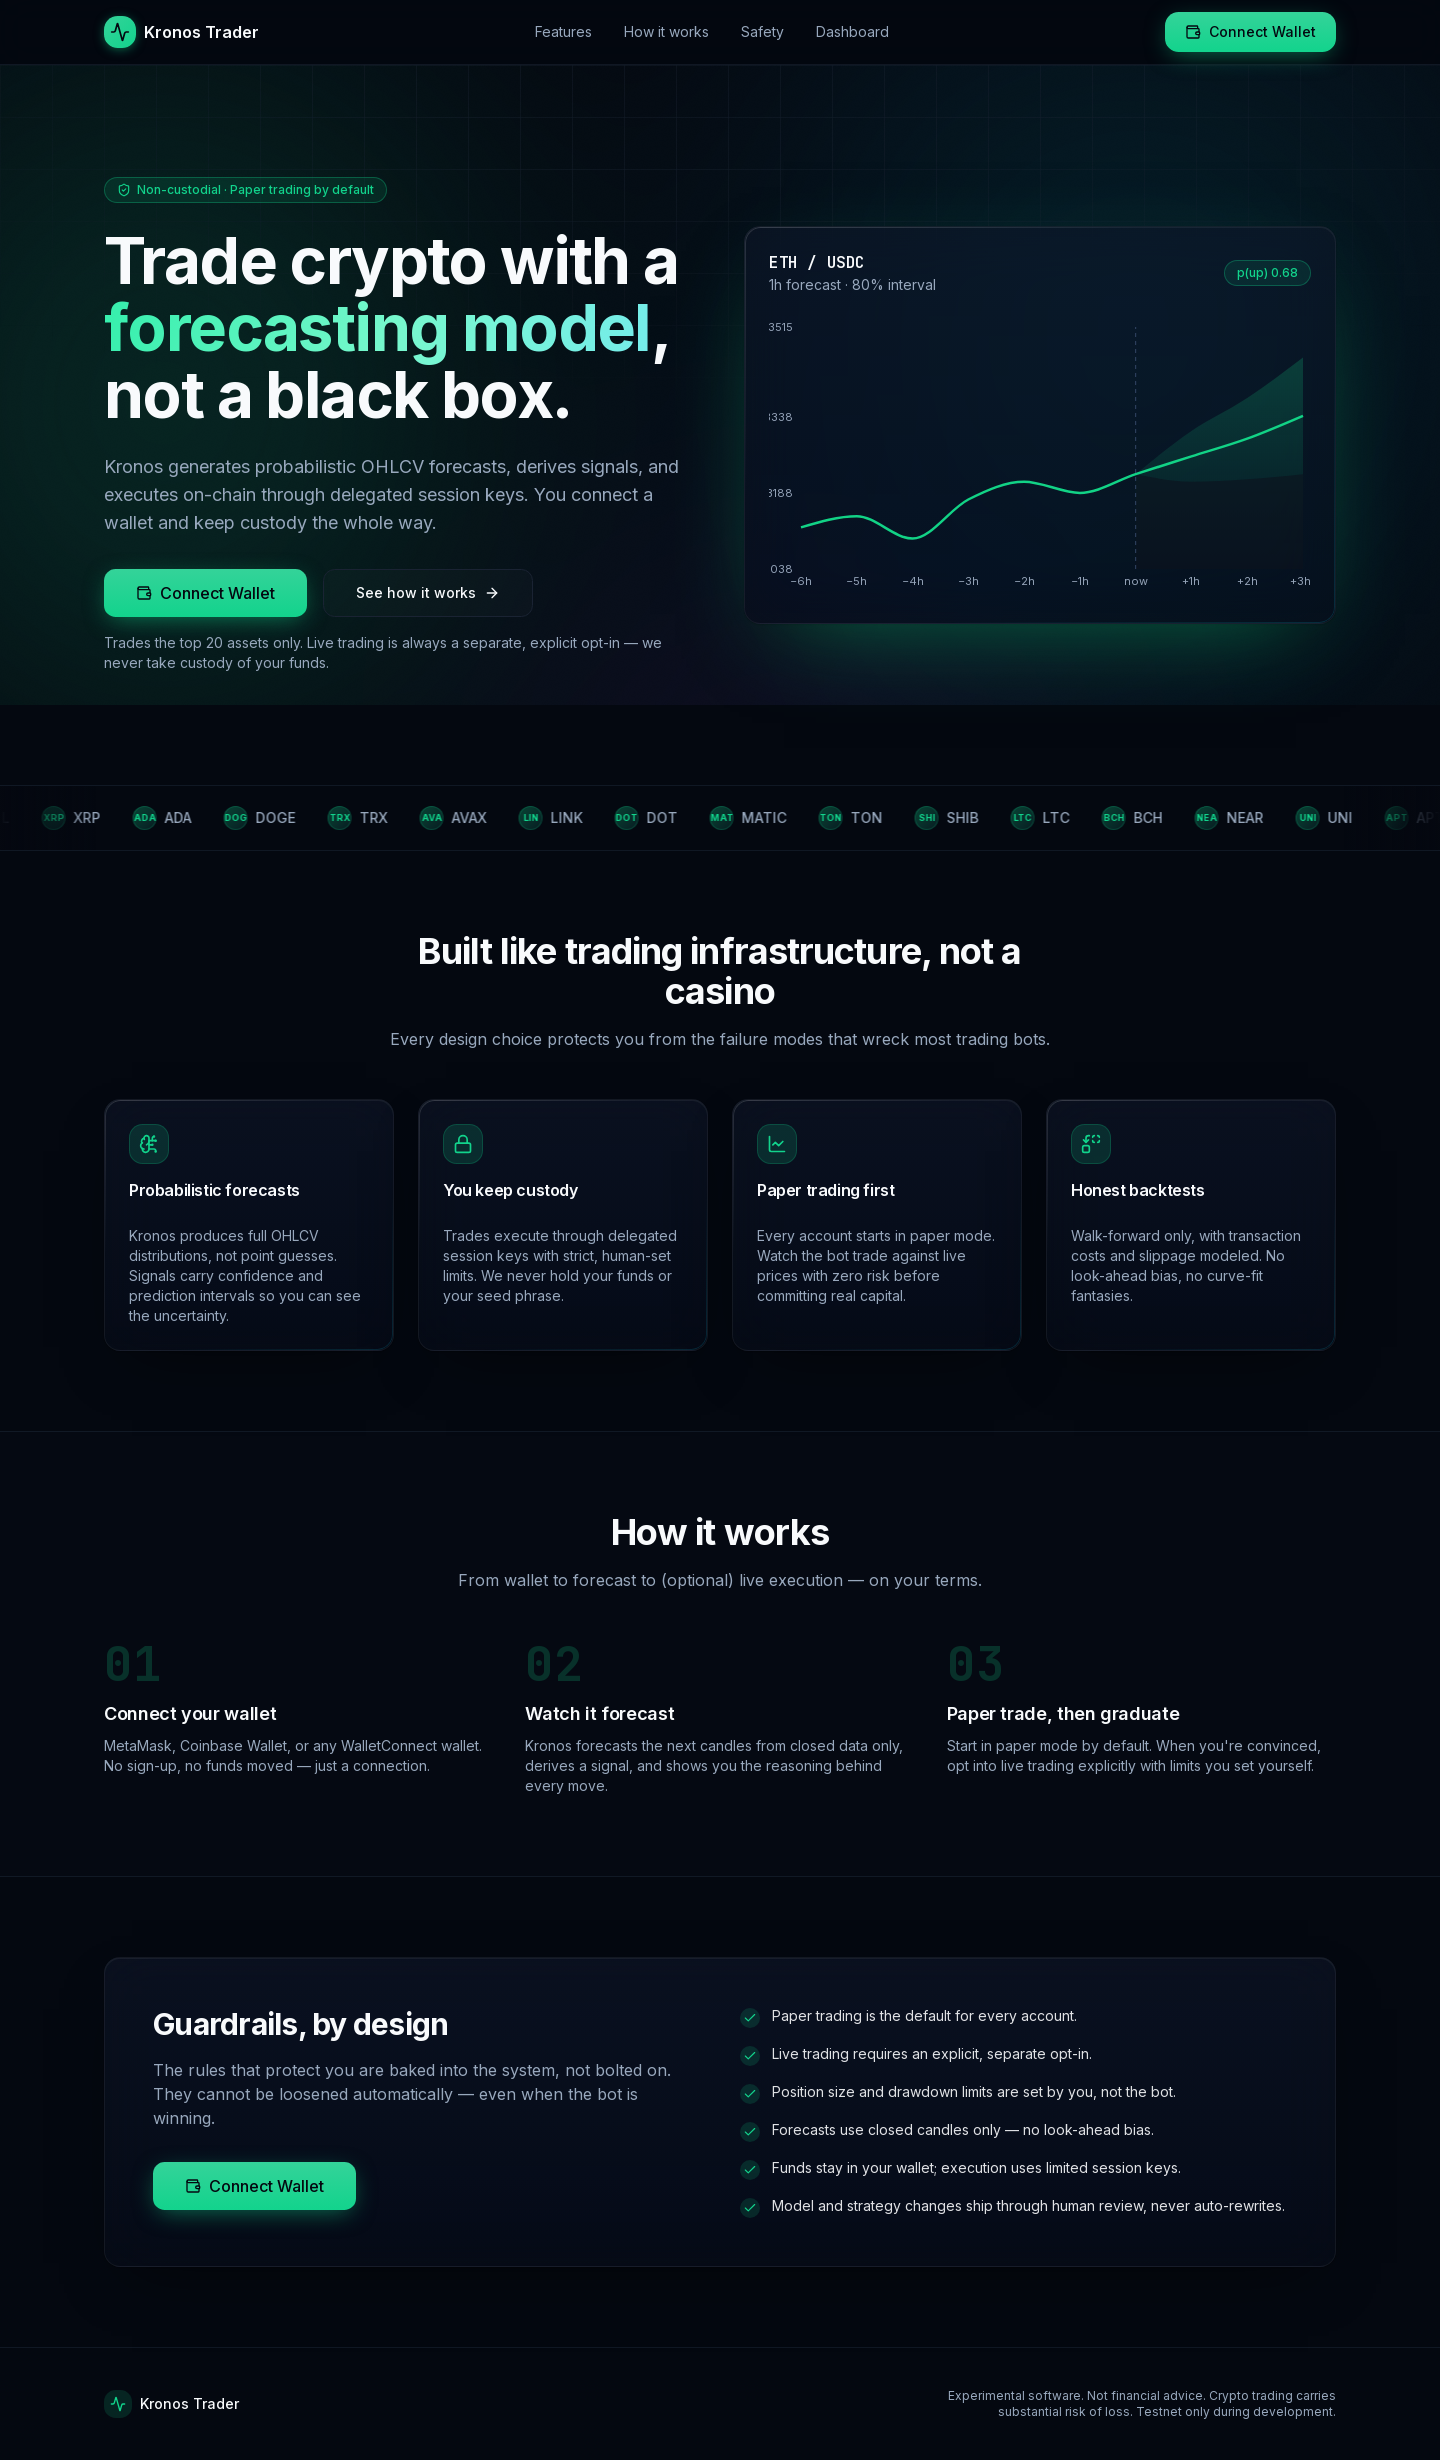
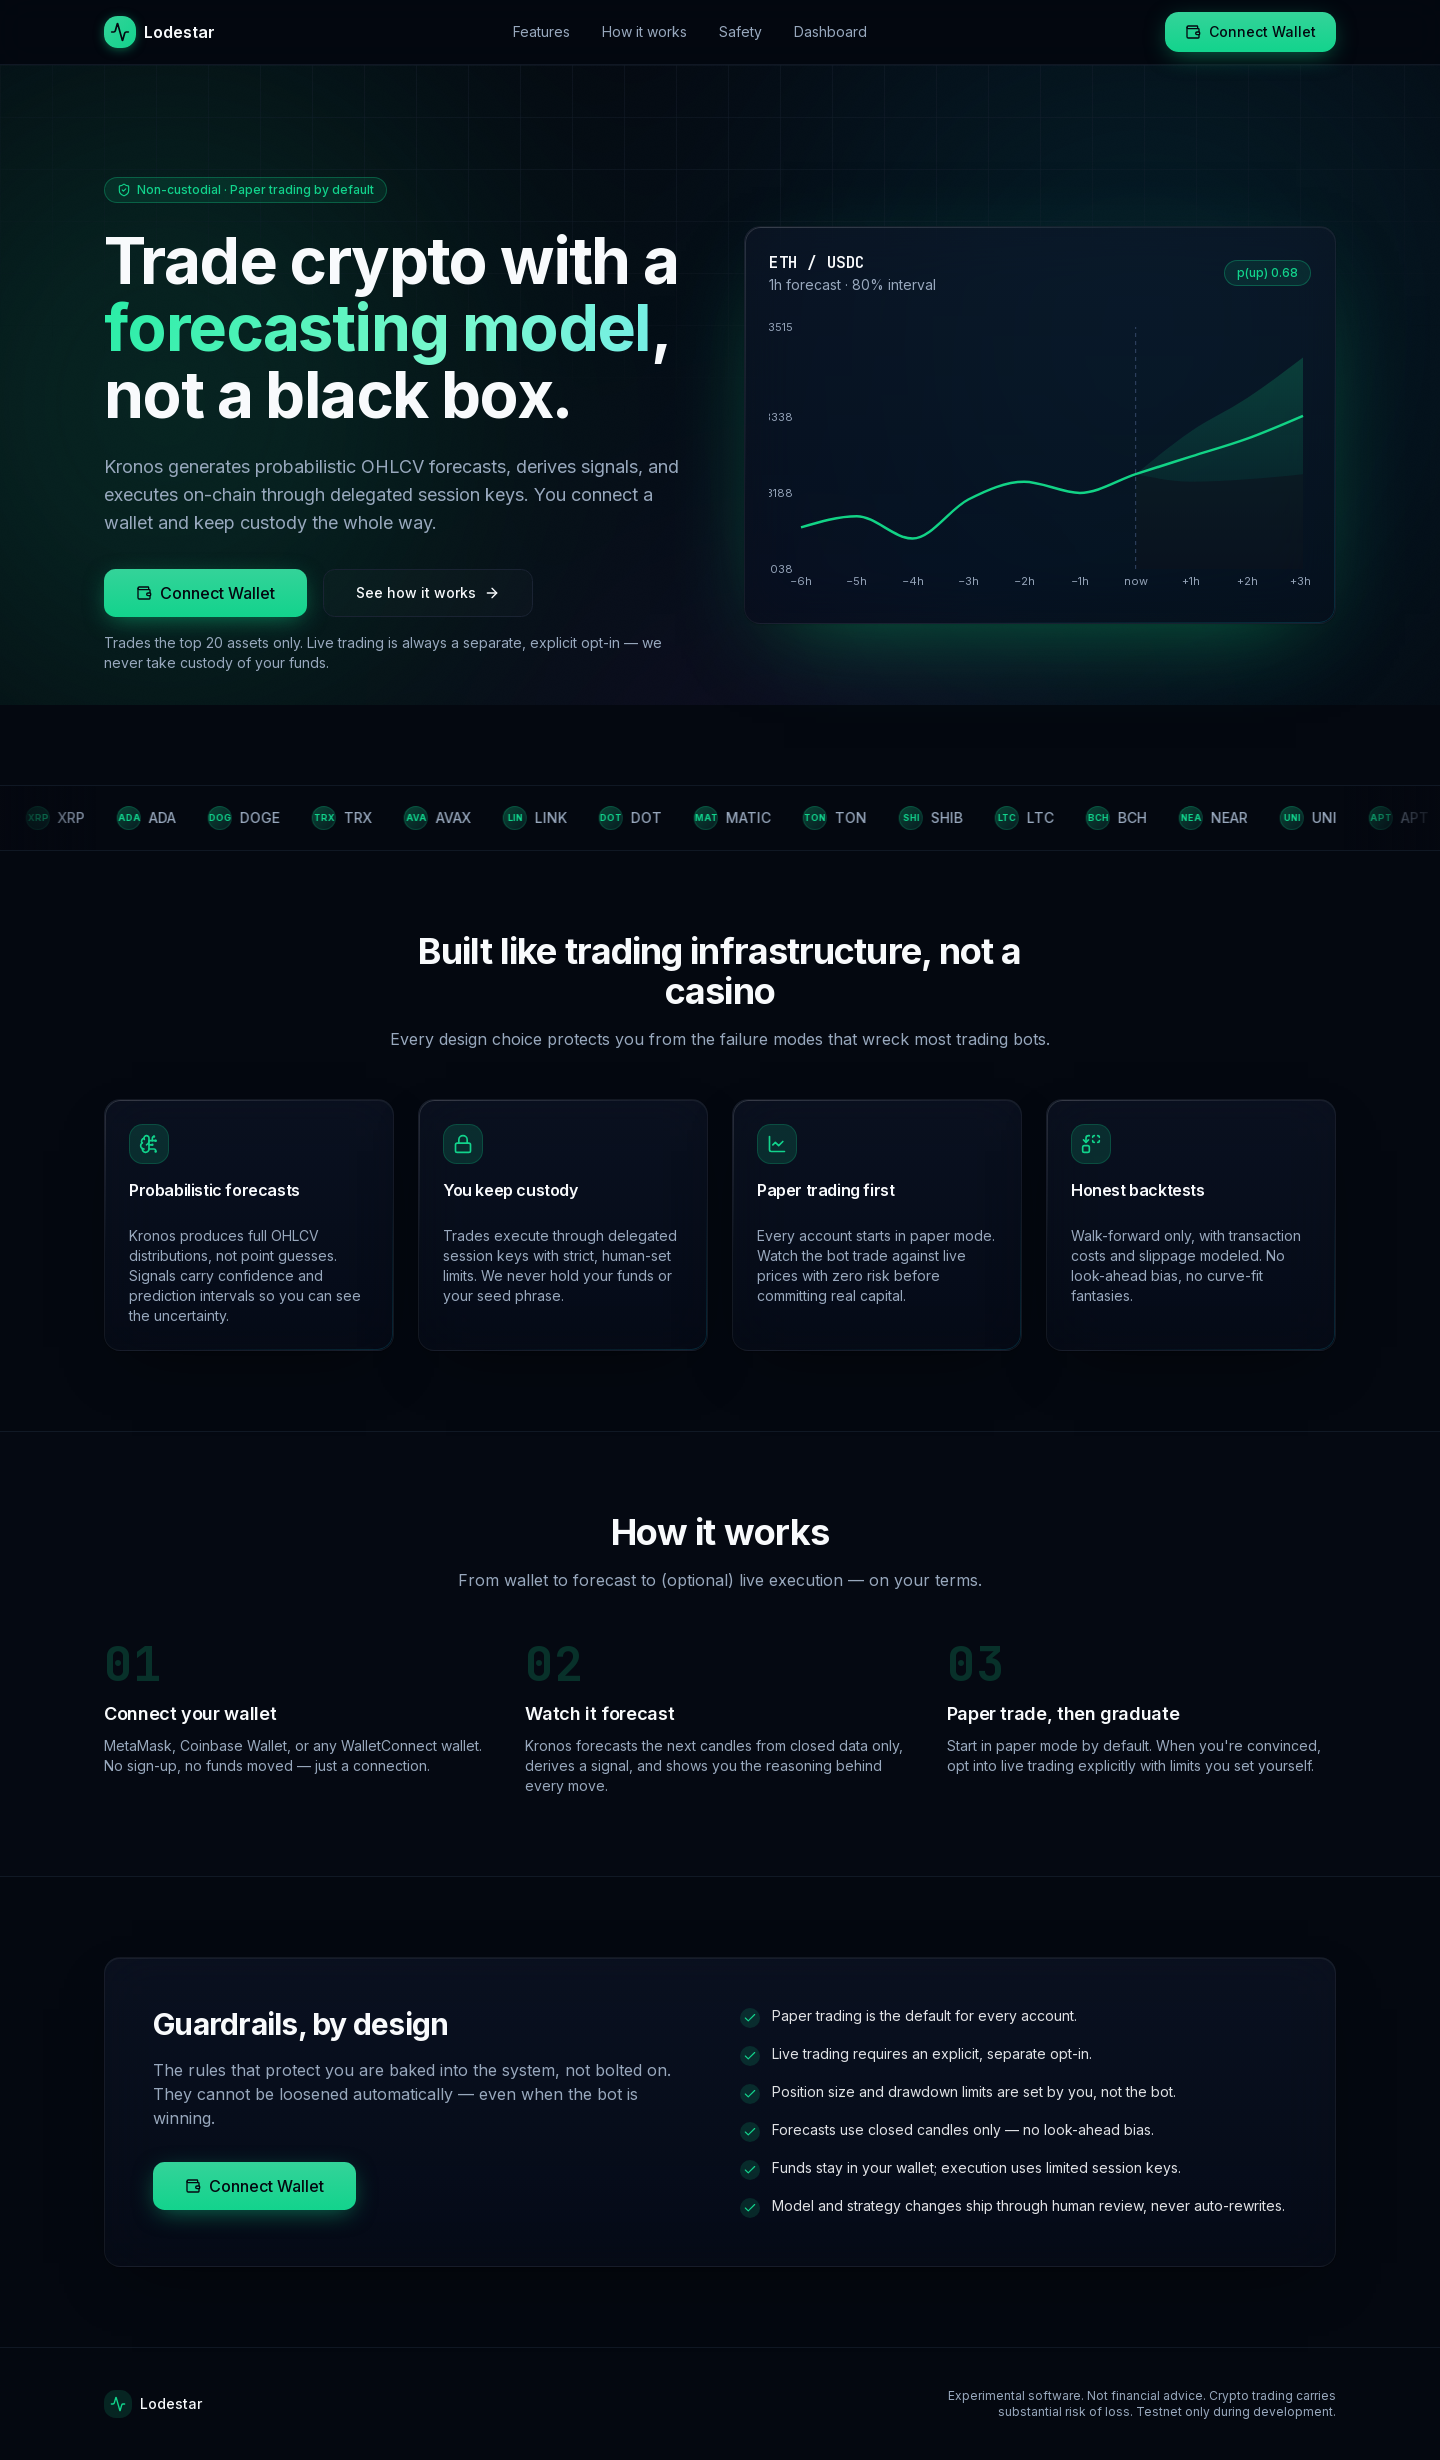
Rebrand product from "Kronos Trader" to "Lodestar"
Branding-only rename of all user-facing text: web UI (navbar, footer, dashboard
headers), page <title>, wallet appName, the SIWE statement (frontend + backend
config kept in sync), the FastAPI app title, the API pyproject description, and
the README (+ regenerated screenshots).

References to the Kronos *foundation model* are intentionally preserved (hero /
features copy, layout description, apps/ml service, checkpoint and signal docs) —
that's the external ML dependency, not our brand. Internal package names
(@kronos/* npm scope, kronos-api / kronos-ml) are left unchanged per scope.

api 151 green; web 45 green; typecheck + build clean.

https://claude.ai/code/session_01KAKyaGuymMAV6o7HH1btWM

diff --git a/apps/web/src/components/landing/footer.tsx b/apps/web/src/components/landing/footer.tsx
@@ -8,7 +8,7 @@ export function Footer() {
           <span className="flex h-7 w-7 items-center justify-center rounded-md bg-primary/15 text-primary">
             <Activity className="h-4 w-4" />
           </span>
-          <span className="font-medium text-foreground">Kronos Trader</span>
+          <span className="font-medium text-foreground">Lodestar</span>
         </div>
         <p className="max-w-md text-center text-xs sm:text-right">
           Experimental software. Not financial advice. Crypto trading carries substantial risk of

diff --git a/apps/web/src/app/layout.tsx b/apps/web/src/app/layout.tsx
@@ -8,7 +8,7 @@ const inter = Inter({ subsets: ["latin"], variable: "--font-sans" });
 const mono = JetBrains_Mono({ subsets: ["latin"], variable: "--font-mono" });
 
 export const metadata: Metadata = {
-  title: "Kronos Trader — non-custodial AI crypto trading",
+  title: "Lodestar — non-custodial AI crypto trading",
   description:
     "Probabilistic OHLCV forecasts from the Kronos foundation model, executed on-chain via session keys. You keep custody. Paper trading by default.",
 };

diff --git a/apps/web/src/components/landing/navbar.tsx b/apps/web/src/components/landing/navbar.tsx
@@ -18,7 +18,7 @@ export function Navbar() {
           <span className="flex h-8 w-8 items-center justify-center rounded-lg bg-gradient-to-br from-emerald-400 to-primary text-primary-foreground shadow-[0_2px_12px_-2px_hsl(158_84%_45%/0.6)]">
             <Activity className="h-5 w-5" />
           </span>
-          Kronos Trader
+          Lodestar
         </a>
 
         <nav className="hidden items-center gap-8 text-sm text-muted-foreground md:flex">

diff --git a/apps/web/src/app/dashboard/analytics/page.tsx b/apps/web/src/app/dashboard/analytics/page.tsx
@@ -32,7 +32,7 @@ export default function AnalyticsPage() {
               <span className="flex h-8 w-8 items-center justify-center rounded-lg bg-gradient-to-br from-emerald-400 to-primary text-primary-foreground shadow-[0_2px_12px_-2px_hsl(158_84%_45%/0.6)]">
                 <Activity className="h-5 w-5" />
               </span>
-              Kronos Trader
+              Lodestar
             </a>
             <DashboardNav />
           </div>

diff --git a/apps/web/src/app/dashboard/page.tsx b/apps/web/src/app/dashboard/page.tsx
@@ -42,7 +42,7 @@ export default function DashboardPage() {
               <span className="flex h-8 w-8 items-center justify-center rounded-lg bg-gradient-to-br from-emerald-400 to-primary text-primary-foreground shadow-[0_2px_12px_-2px_hsl(158_84%_45%/0.6)]">
                 <Activity className="h-5 w-5" />
               </span>
-              Kronos Trader
+              Lodestar
             </a>
             <DashboardNav />
           </div>

diff --git a/apps/web/src/app/dashboard/paper/page.tsx b/apps/web/src/app/dashboard/paper/page.tsx
@@ -30,7 +30,7 @@ export default function PaperPage() {
               <span className="flex h-8 w-8 items-center justify-center rounded-lg bg-gradient-to-br from-emerald-400 to-primary text-primary-foreground shadow-[0_2px_12px_-2px_hsl(158_84%_45%/0.6)]">
                 <Activity className="h-5 w-5" />
               </span>
-              Kronos Trader
+              Lodestar
             </a>
             <DashboardNav />
           </div>

diff --git a/apps/web/src/lib/wagmi.ts b/apps/web/src/lib/wagmi.ts
@@ -10,7 +10,7 @@ import { env } from "@/lib/env";
  * development. Mainnet is added in Phase 10 behind explicit review.
  */
 export const wagmiConfig: Config = getDefaultConfig({
-  appName: "Kronos Trader",
+  appName: "Lodestar",
   projectId: env.walletConnectProjectId,
   chains: [baseSepolia, sepolia],
   ssr: true,

diff --git a/apps/web/src/lib/auth-adapter.ts b/apps/web/src/lib/auth-adapter.ts
@@ -27,7 +27,7 @@ export const authenticationAdapter: StringAuthenticationAdapter =
       nonce,
       uri: env.appUrl,
       version: "1",
-      statement: "Sign in to Kronos Trader.",
+      statement: "Sign in to Lodestar.",
     });
   },
 

diff --git a/apps/api/src/main.py b/apps/api/src/main.py
@@ -1,4 +1,4 @@
-"""Kronos Trader API entrypoint."""
+"""Lodestar API entrypoint."""
 
 from __future__ import annotations
 
@@ -21,7 +21,7 @@ async def lifespan(_app: FastAPI) -> AsyncIterator[None]:
     yield
 
 
-app = FastAPI(title="Kronos Trader API", version="0.1.0", lifespan=lifespan)
+app = FastAPI(title="Lodestar API", version="0.1.0", lifespan=lifespan)
 
 app.add_middleware(
     CORSMiddleware,

diff --git a/apps/api/src/config.py b/apps/api/src/config.py
@@ -19,7 +19,7 @@ class Settings(BaseSettings):
     # SIWE auth. This is a single-owner personal bot: only OWNER_ADDRESS may
     # authenticate. There is intentionally no user-accounts table.
     owner_address: str = ""
-    siwe_statement: str = "Sign in to Kronos Trader."
+    siwe_statement: str = "Sign in to Lodestar."
     nonce_ttl_seconds: int = 600
     session_ttl_seconds: int = 86_400
 

diff --git a/apps/api/tests/test_auth.py b/apps/api/tests/test_auth.py
@@ -30,7 +30,7 @@ def _build_message(address: str, nonce: str, domain: str = "localhost:3000") -> 
     return (
         f"{domain} wants you to sign in with your Ethereum account:\n"
         f"{address}\n\n"
-        "Sign in to Kronos Trader.\n\n"
+        "Sign in to Lodestar.\n\n"
         f"URI: http://{domain}\n"
         "Version: 1\n"
         "Chain ID: 84532\n"

diff --git a/README.md b/README.md
@@ -1,6 +1,6 @@
-# Kronos Trader
+# Lodestar
 
-A **non-custodial** crypto trading web app powered by the [Kronos](https://github.com/shiyu-coder/Kronos)
+**Lodestar** is a **non-custodial** crypto trading web app powered by the [Kronos](https://github.com/shiyu-coder/Kronos)
 foundation model. You connect a wallet, the bot generates probabilistic OHLCV
 forecasts, derives long/short signals, and (optionally) executes on-chain through
 delegated session keys — **you keep custody the entire way**, and every account
@@ -190,7 +190,7 @@ This project encodes hard rules (see [`CLAUDE.md`](CLAUDE.md)). The most importa
 
 ## Disclaimer
 
-Kronos Trader is experimental research software. Cryptocurrency trading carries
+Lodestar is experimental research software. Cryptocurrency trading carries
 substantial risk of loss. Nothing here is financial advice. Use paper trading,
 testnets, and tiny sizes; you are solely responsible for any funds you put at
 risk. No warranty of any kind is provided.
